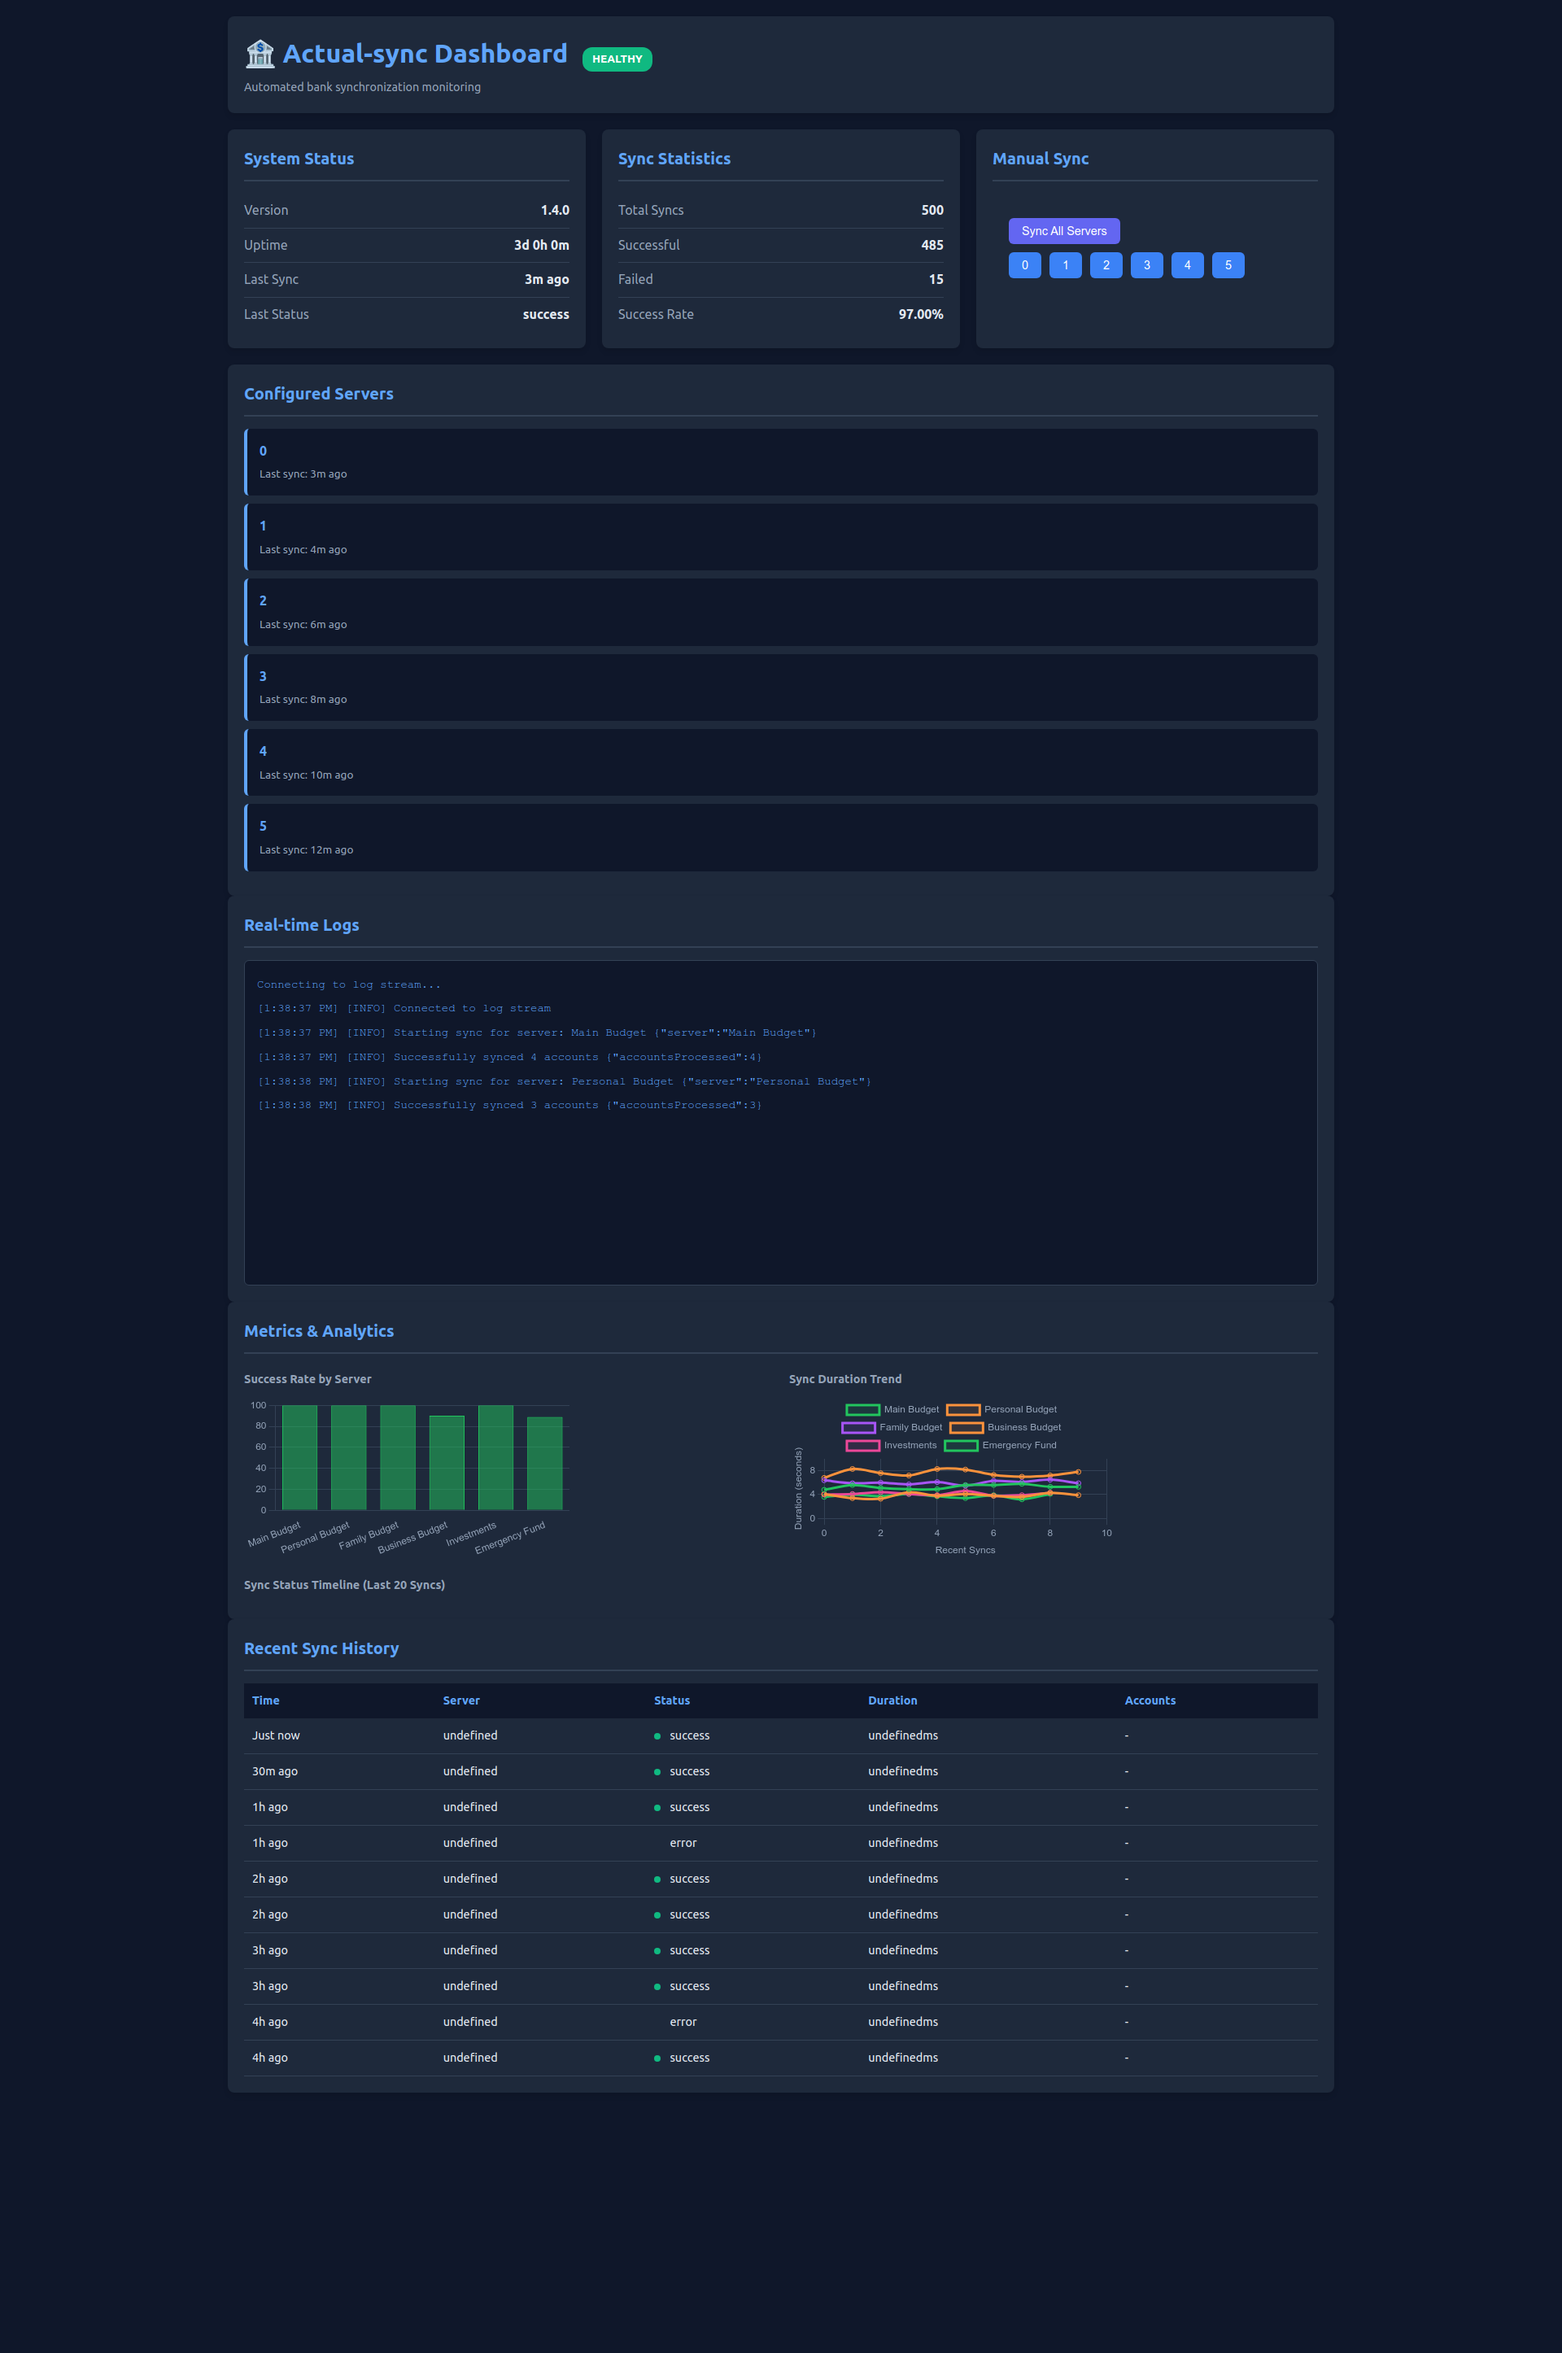
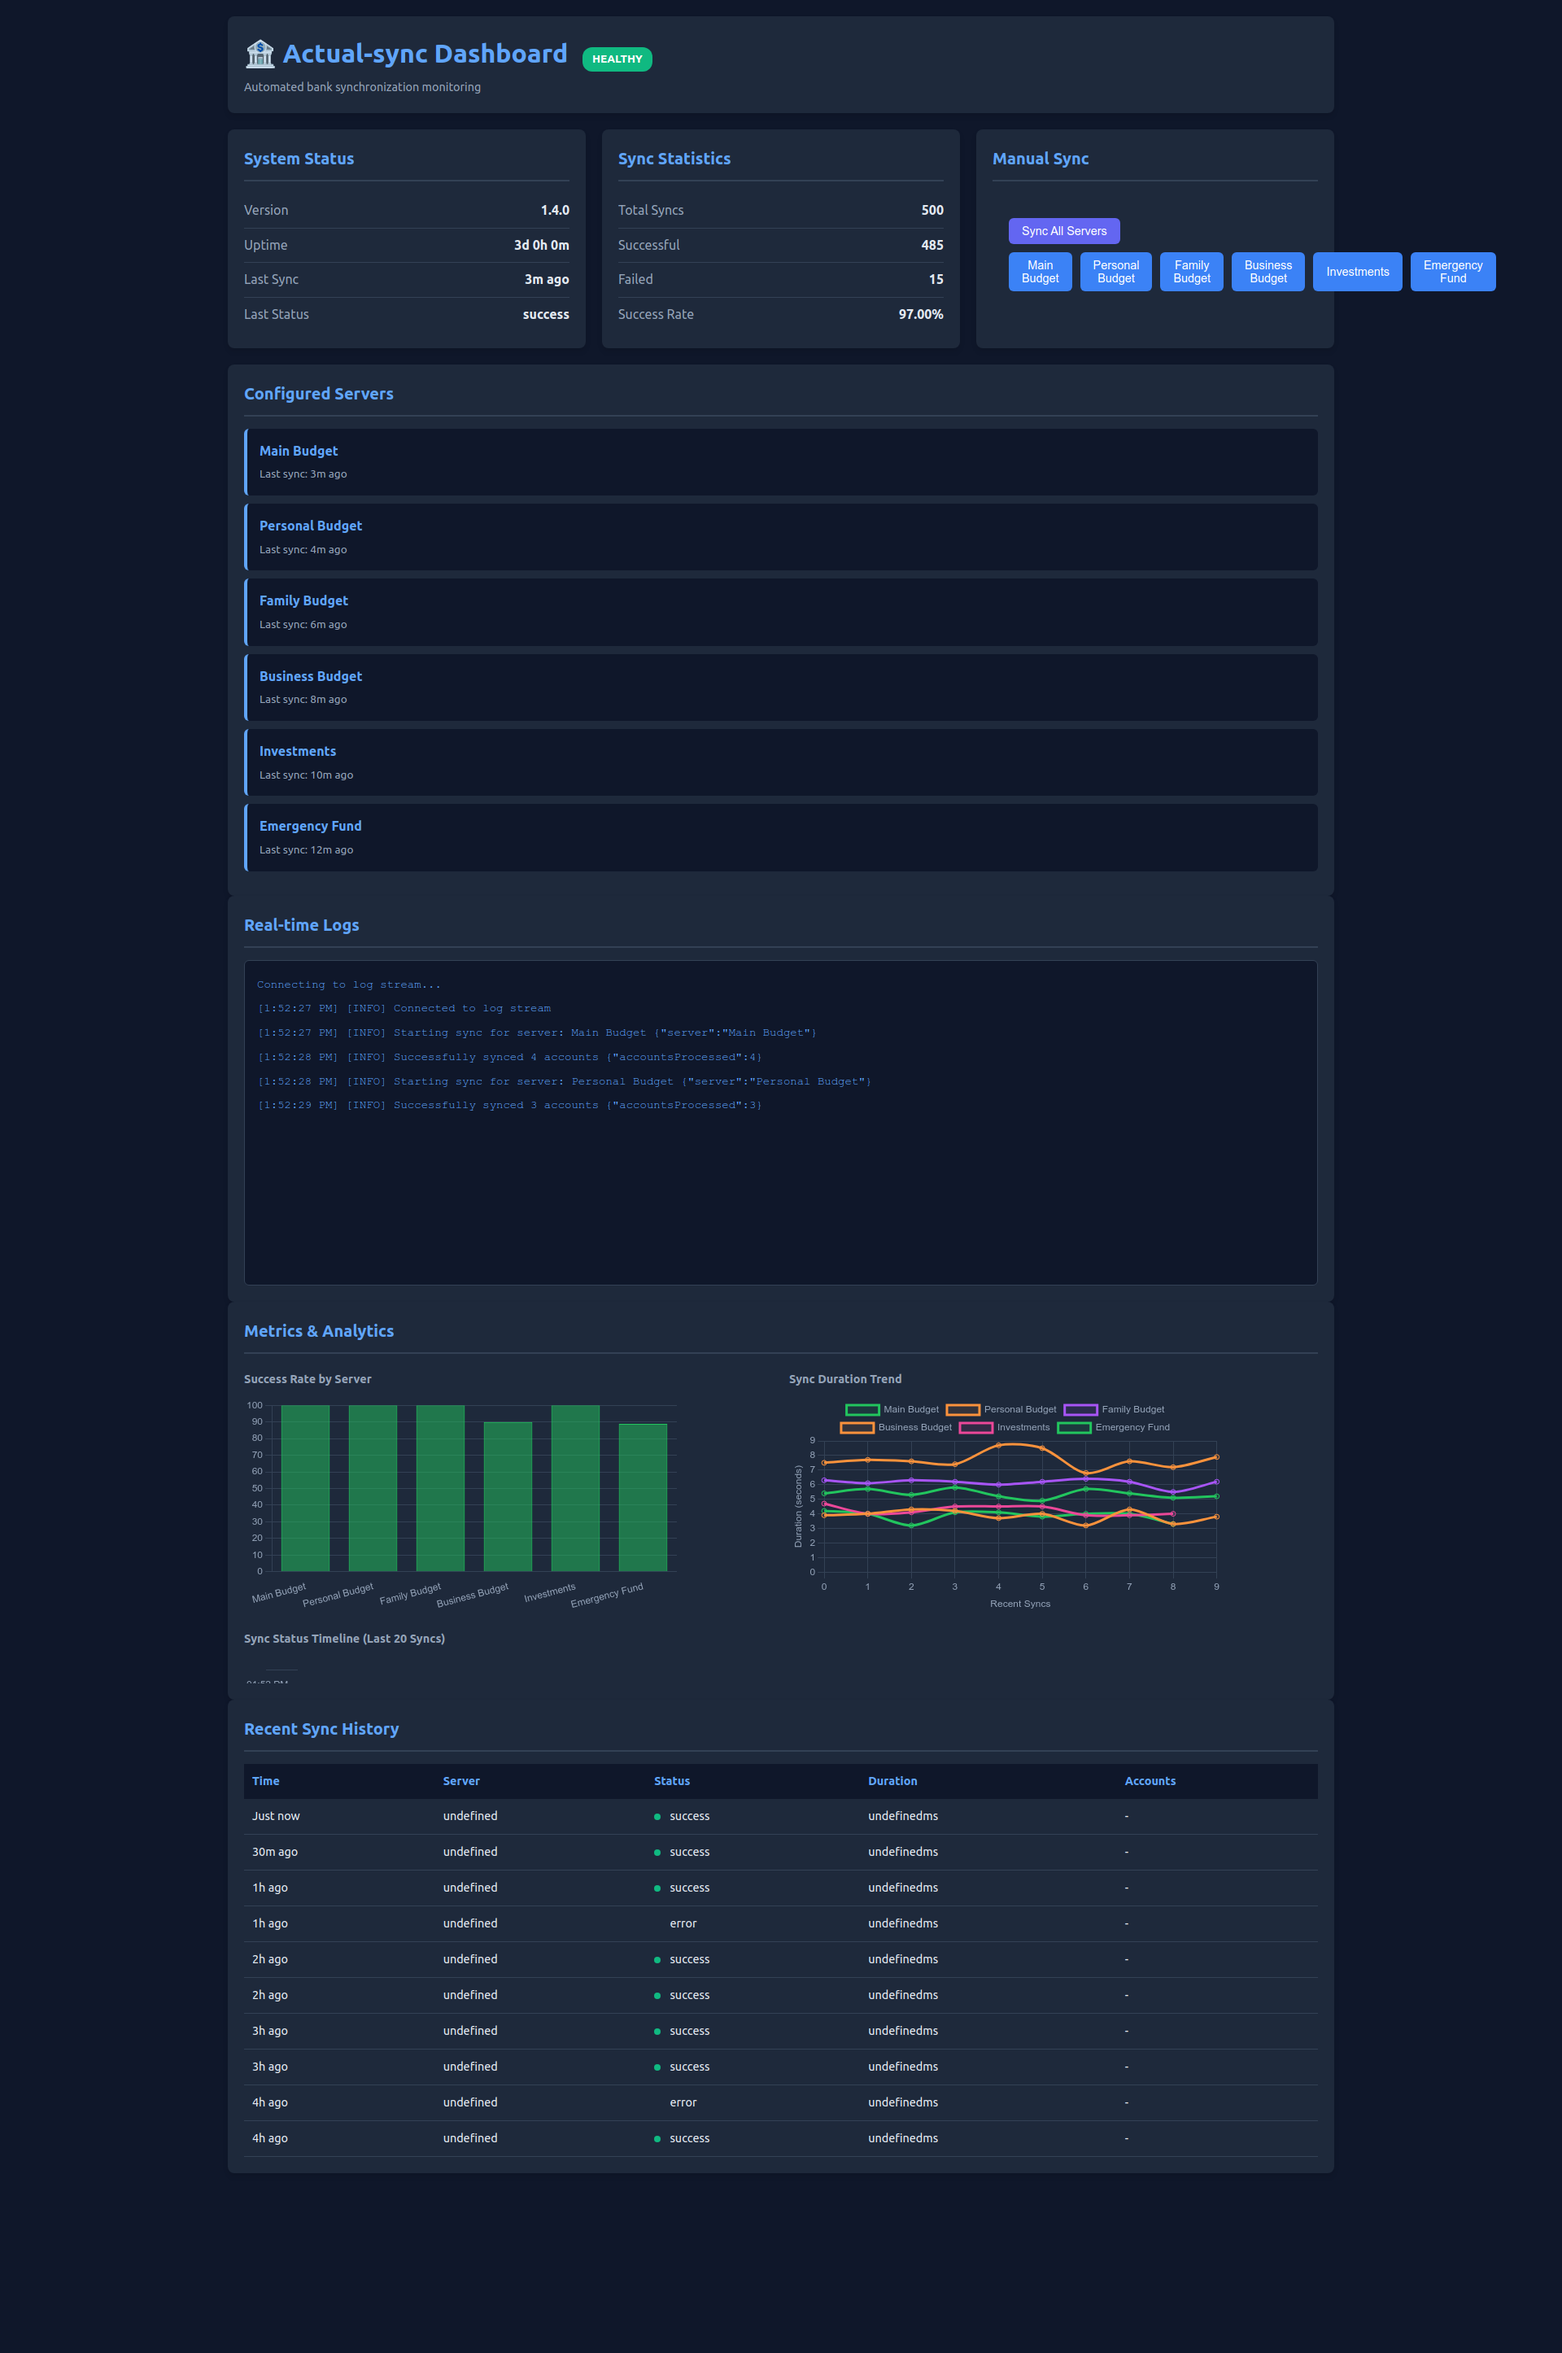
fix: Correct server data format in screenshot script
- Changed servers from array to object format in all 3 scenarios
- Fixes Manual Sync buttons showing indices (0,1,2,3...) instead of server names
- Updated screenshots to display proper server names
- Aligns mock data structure with real API format

diff --git a/scripts/generateDashboardScreenshots.js b/scripts/generateDashboardScreenshots.js
@@ -83,11 +83,11 @@ async function injectFakeData(page, scenario) {
                     failedSyncs: 5,
                     successRate: '96.67%'
                 },
-                servers: [
-                    { name: 'Main Budget', status: 'success', lastSync: new Date(Date.now() - 300000).toISOString() },
-                    { name: 'Personal Budget', status: 'success', lastSync: new Date(Date.now() - 600000).toISOString() },
-                    { name: 'Family Budget', status: 'success', lastSync: new Date(Date.now() - 900000).toISOString() }
-                ]
+                servers: {
+                    'Main Budget': { status: 'success', lastSync: new Date(Date.now() - 300000).toISOString() },
+                    'Personal Budget': { status: 'success', lastSync: new Date(Date.now() - 600000).toISOString() },
+                    'Family Budget': { status: 'success', lastSync: new Date(Date.now() - 900000).toISOString() }
+                }
             },
             metrics: {
                 overall: { totalSyncs: 50, successCount: 48, failureCount: 2, successRate: 0.96 },
@@ -149,12 +149,12 @@ async function injectFakeData(page, scenario) {
                     failedSyncs: 30,
                     successRate: '85.00%'
                 },
-                servers: [
-                    { name: 'Main Budget', status: 'success', lastSync: new Date(Date.now() - 1800000).toISOString() },
-                    { name: 'Personal Budget', status: 'error', lastSync: new Date(Date.now() - 3600000).toISOString() },
-                    { name: 'Family Budget', status: 'success', lastSync: new Date(Date.now() - 2400000).toISOString() },
-                    { name: 'Business Budget', status: 'error', lastSync: new Date(Date.now() - 5400000).toISOString() }
-                ]
+                servers: {
+                    'Main Budget': { status: 'success', lastSync: new Date(Date.now() - 1800000).toISOString() },
+                    'Personal Budget': { status: 'error', lastSync: new Date(Date.now() - 3600000).toISOString() },
+                    'Family Budget': { status: 'success', lastSync: new Date(Date.now() - 2400000).toISOString() },
+                    'Business Budget': { status: 'error', lastSync: new Date(Date.now() - 5400000).toISOString() }
+                }
             },
             metrics: {
                 overall: { totalSyncs: 50, successCount: 40, failureCount: 10, successRate: 0.80 },
@@ -223,14 +223,14 @@ async function injectFakeData(page, scenario) {
                     failedSyncs: 15,
                     successRate: '97.00%'
                 },
-                servers: [
-                    { name: 'Main Budget', status: 'success', lastSync: new Date(Date.now() - 180000).toISOString() },
-                    { name: 'Personal Budget', status: 'success', lastSync: new Date(Date.now() - 240000).toISOString() },
-                    { name: 'Family Budget', status: 'success', lastSync: new Date(Date.now() - 360000).toISOString() },
-                    { name: 'Business Budget', status: 'success', lastSync: new Date(Date.now() - 480000).toISOString() },
-                    { name: 'Investments', status: 'success', lastSync: new Date(Date.now() - 600000).toISOString() },
-                    { name: 'Emergency Fund', status: 'success', lastSync: new Date(Date.now() - 720000).toISOString() }
-                ]
+                servers: {
+                    'Main Budget': { status: 'success', lastSync: new Date(Date.now() - 180000).toISOString() },
+                    'Personal Budget': { status: 'success', lastSync: new Date(Date.now() - 240000).toISOString() },
+                    'Family Budget': { status: 'success', lastSync: new Date(Date.now() - 360000).toISOString() },
+                    'Business Budget': { status: 'success', lastSync: new Date(Date.now() - 480000).toISOString() },
+                    'Investments': { status: 'success', lastSync: new Date(Date.now() - 600000).toISOString() },
+                    'Emergency Fund': { status: 'success', lastSync: new Date(Date.now() - 720000).toISOString() }
+                }
             },
             metrics: {
                 overall: { totalSyncs: 60, successCount: 58, failureCount: 2, successRate: 0.967 },
